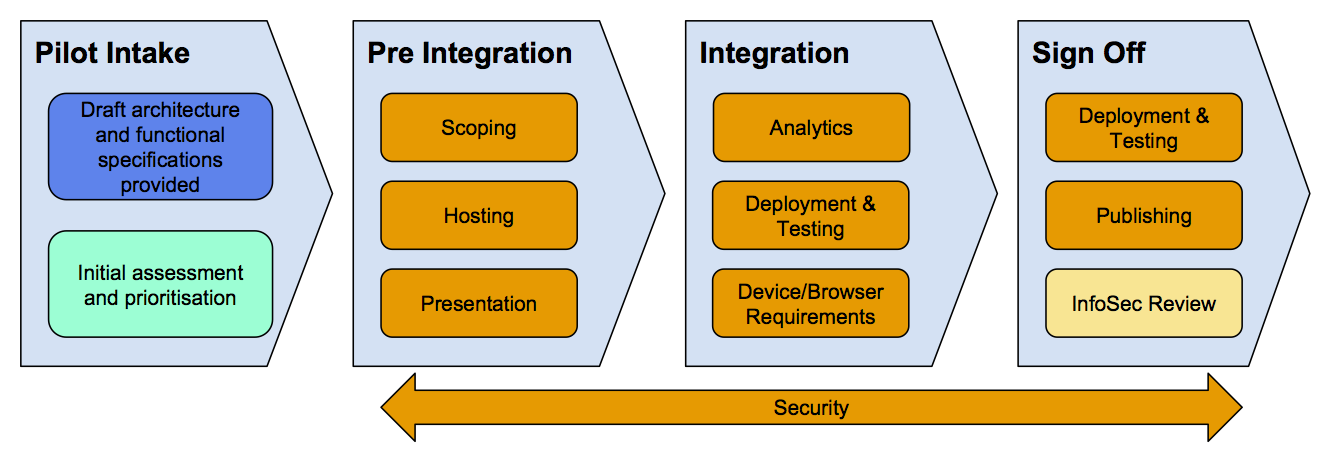
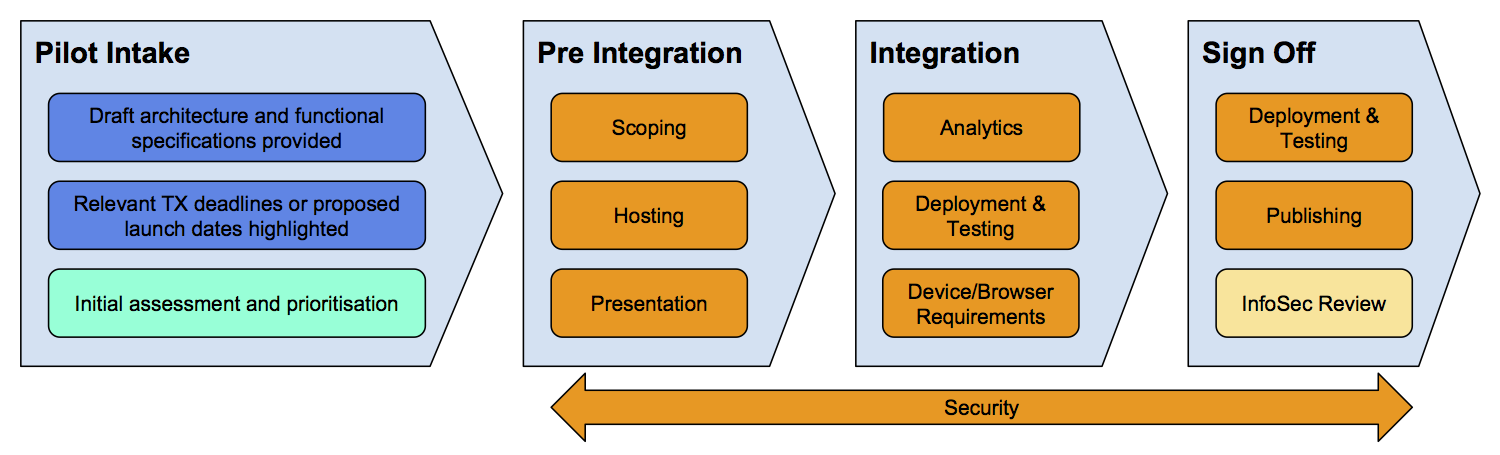
Add detail about launch date/TX into process diagram

diff --git a/README.md b/README.md
@@ -8,7 +8,7 @@ Pilots applications are typically (but not always) web applications. This docume
 
 Creating and launching your pilot into Taster is a collaborative effort. You will go through the following stages, working with the Taster team throughout 
 
-<img src="./overview/images/pilot-process.png" alt="Taster hosting overview" width="650" >
+<img src="./overview/images/pilot-process.png" alt="Taster hosting overview" width="750" >
 
 More detail about the concerns highlighted in the process are given below, including the **actions that must be completed** to satisfy them. 
 
@@ -207,7 +207,6 @@ More detail about the concerns highlighted in the process are given below, inclu
             </td>
             <td>
                 <ul>
-                    <li>Launch date proposed</li>
                 </ul>
             </td>
             <td>
